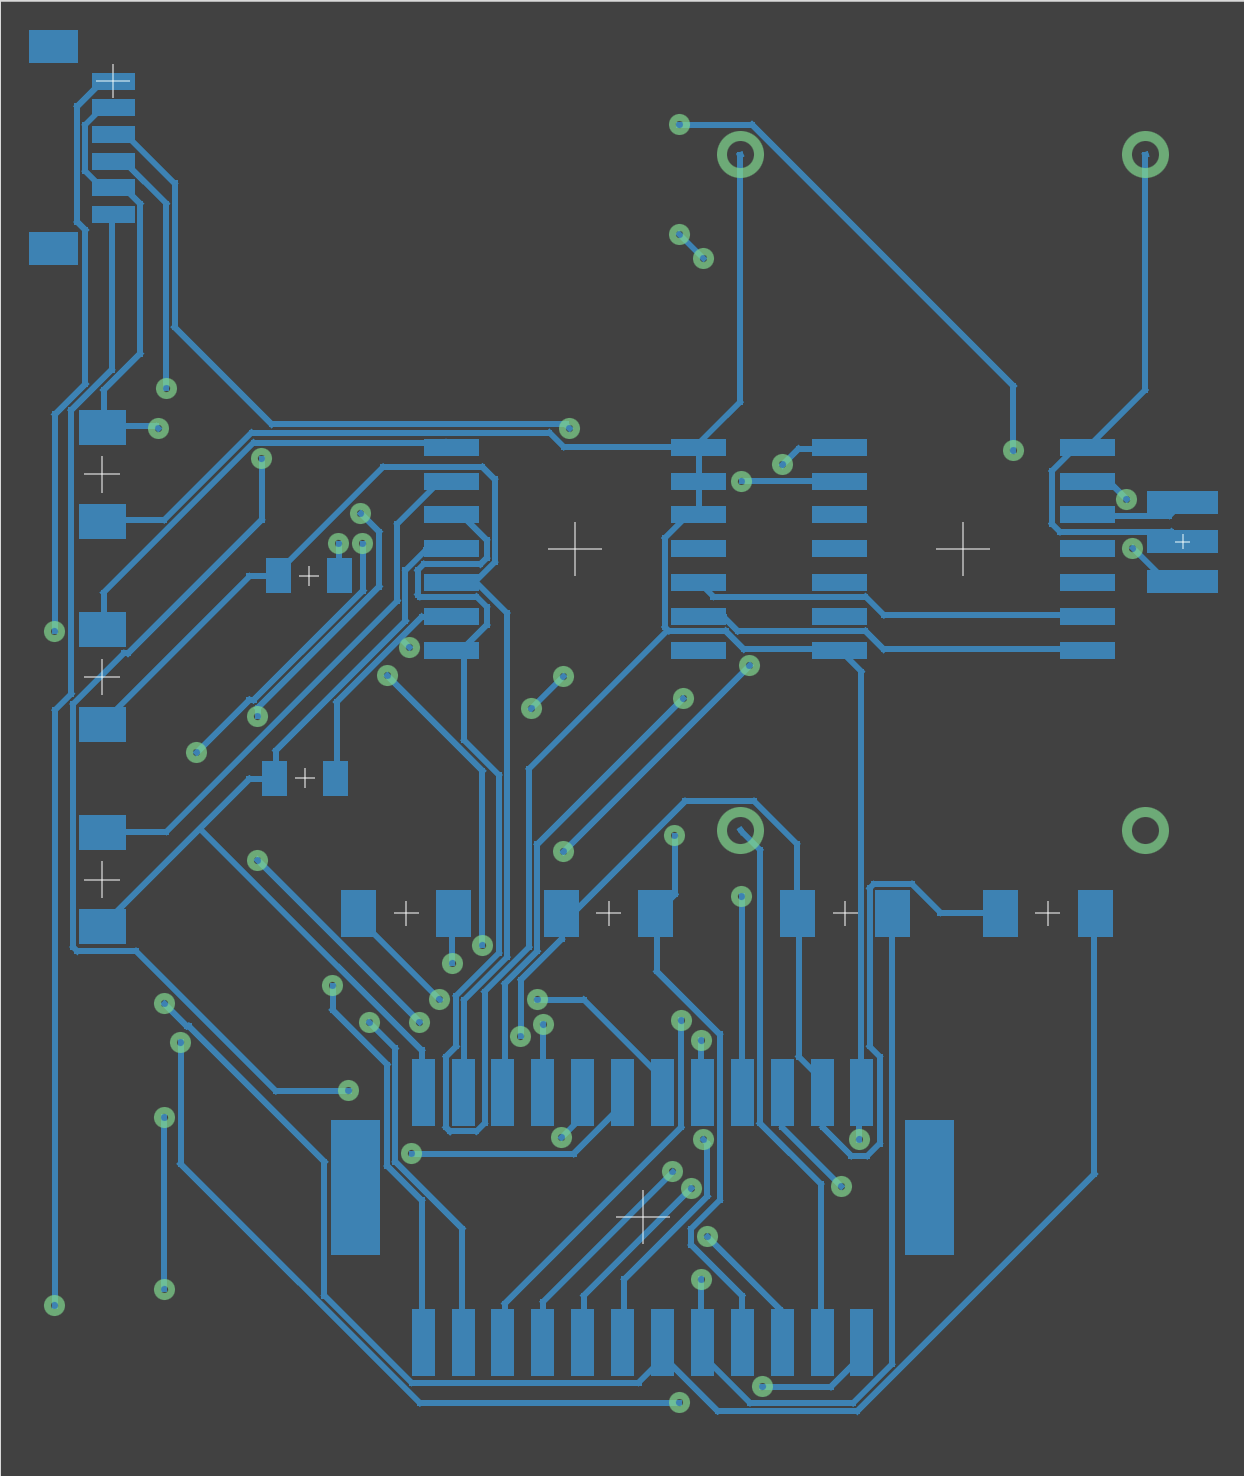
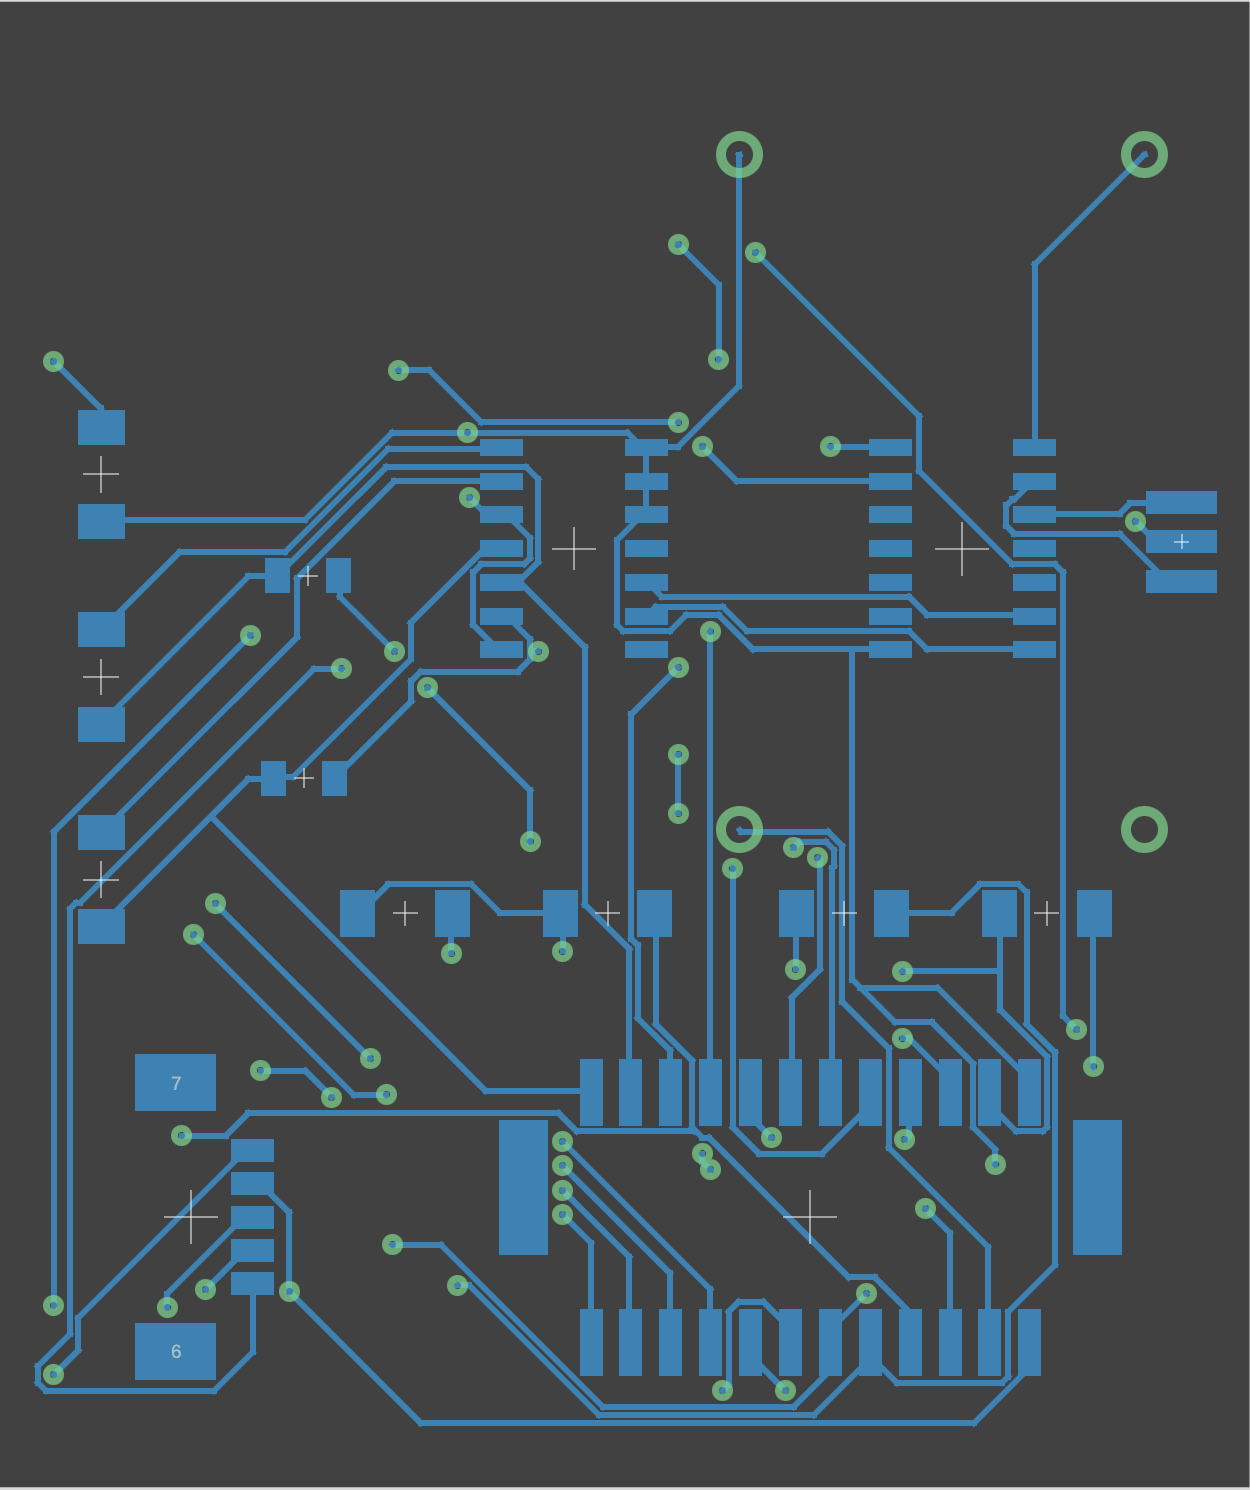
Some changes to the schema and PCB.
+ Replace the DEBUG connector with a "proper" 5pin/2mm pitch/vertical, connector.
+ Update the 3D models for the CAN bus chips and the big connector.
+ Renumber and rename the resistors.
+ Update the README.md file a little. Wording not quite right..
+ Update all screenshots.

diff --git a/README.md b/README.md
@@ -41,6 +41,7 @@ This is to introduce drive-by-wire buttons for Mercedes-Benz. Specifically, it i
      - [Update Sun 5 May 2024](#update-sun-5-may-2024)
      - [Update Sun 6 May 2024](#update-sun-6-may-2024)
      - [Update Sun 8 May 2024](#update-sun-8-may-2024)
+     - [Update Sun 9 May 2024](#update-sun-9-may-2024)
 5. [Additional information](#additional-information)
 
 ## Fingerprint scanner instead of Start button
@@ -134,27 +135,27 @@ Q: Can DriveByWire check CAN for certain buttons around the car
 # Pin layout for RaspberryPI 3-5, and Pico
 
 | Pin | Port    | Use                          |-| Pin | Port    | Use
-| --: | :------ | :--------------------------- |-| --: | :------ | :------------------------------- |
-|   1 | GPIO  0 | Debug (RX)                   |-| 40  | VBUS    |                                  |
-|   2 | GPIO  1 | Debug (TX)                   |-| 39  | VSYS    |                                  |
-|   3 | GND     |                              |-| 38  | GND     |                                  |
-|   4 | GPIO  2 | Button (Switch - P)          |-| 37  | 3V3_EN  |                                  |
-|   5 | GPIO  3 | Button (Switch - R)          |-| 36  | 3V3_OUT |                                  |
-|   6 | GPIO  4 | Button (Switch - N)          |-| 35  | VDC_REF |                                  |
-|   7 | GPIO  5 | Button (Switch - D)          |-| 34  | GPIO 28 | Actuator - Motor Relay (+)       |
-|   8 | GND     |                              |-| 33  | GND     |                                  |
-|   9 | GPIO  6 | Button (Telltale - P)        |-| 32  | GPIO 27 | Actuator - Motor Relay (-)       |
-|  10 | GPIO  7 | Button (Telltale - R)        |-| 31  | GPIO 26 | Actuator - Potentiometer Brush   |
-|  11 | GPIO  8 | Button (Telltale - N)        |-| 30  | RUN     |                                  |
-|  12 | GPIO  9 | Button (Telltale - D)        |-| 29  | GPIO 22 | EIS Relay (#3 - start)           |
-|  13 | GND     | *[GPIO 29]*                  |-| 28  | GND     | *[GPIO 23]*                      |
-|  14 | GPIO 10 | CAN #1 (RX)                  |-| 27  | GPIO 21 | CAN #0 (RX)                      |
-|  15 | GPIO 11 | CAN #1 (TX)                  |-| 26  | GPIO 20 | CAN #0 (TX)                      |
-|  16 | GPIO 12 |                              |-| 25  | GPIO 19 | EIS Relay (#1 - ignition switch) |
-|  17 | GPIO 13 | Fingerprint Scanner (WAKEUP) |-| 24  | GPIO 18 | EIS Relay (#2 - steering lock)   |
-|  18 | GND     | *[GPIO 25]*                  |-| 23  | GND     | *[GPIO 24]*                      |
-|  19 | GPIO 14 | Status LED (Data OUT)        |-| 22  | GPIO 17 | Fingerprint Scanner (TX)         |
-|  20 | GPIO 15 | Status LED (Data IN)         |-| 21  | GPIO 16 | Fingerprint Scanner (RX)         |
+| --: | :------ | :--------------------------- |-| --: | :------ | :-------------------------------   |
+|   1 | GPIO  0 | Debug (RX)                   |-| 40  | VBUS    |                                    |
+|   2 | GPIO  1 | Debug (TX)                   |-| 39  | VSYS    |                                    |
+|   3 | GND     |                              |-| 38  | GND     |                                    |
+|   4 | GPIO  2 | Button (Switch - P)          |-| 37  | 3V3_EN  |                                    |
+|   5 | GPIO  3 | Button (Switch - R)          |-| 36  | 3V3_OUT |                                    |
+|   6 | GPIO  4 | Button (Switch - N)          |-| 35  | VDC_REF |                                    |
+|   7 | GPIO  5 | Button (Switch - D)          |-| 34  | GPIO 28 | Actuator - Motor Relay (+)         |
+|   8 | GND     |                              |-| 33  | GND     |                                    |
+|   9 | GPIO  6 | Button (Telltale - P)        |-| 32  | GPIO 27 | Actuator - Motor Relay (-)         |
+|  10 | GPIO  7 | Button (Telltale - R)        |-| 31  | GPIO 26 | Actuator - Potentiometer Brush     |
+|  11 | GPIO  8 | Button (Telltale - N)        |-| 30  | RUN     |                                    |
+|  12 | GPIO  9 | Button (Telltale - D)        |-| 29  | GPIO 22 | EIS Relay (#3 - start)             |
+|  13 | GND     | *[GPIO 29]*                  |-| 28  | GND     | *[GPIO 23]*                        |
+|  14 | GPIO 10 | ~~CAN #1 (RX)~~              |-| 27  | GPIO 21 | CAN #0 (RX)                        |
+|  15 | GPIO 11 | ~~CAN #1 (TX)~~              |-| 26  | GPIO 20 | CAN #0 (TX)                        |
+|  16 | GPIO 12 |                              |-| 25  | GPIO 19 | EIS Relay (#1 - ignition switch)   |
+|  17 | GPIO 13 | Fingerprint Scanner (WAKEUP) |-| 24  | GPIO 18 | ~~EIS Relay (#2 - steering lock)~~ |
+|  18 | GND     | *[GPIO 25]*                  |-| 23  | GND     | *[GPIO 24]*                        |
+|  19 | GPIO 14 | Status LED (Data OUT)        |-| 22  | GPIO 17 | Fingerprint Scanner (TX)           |
+|  20 | GPIO 15 | Status LED (Data IN)         |-| 21  | GPIO 16 | Fingerprint Scanner (RX)           |
 
 LED | GPIO 25
 
@@ -213,7 +214,7 @@ Or those two combined, [buttons and their LEDs and the status LED](https://www.e
 
 ### Total
 
-31 leads out from system - 24, counting only unique pins (SteeringLock "relay" and CAN#2 not counted, because
+31 leads out from system - 24, counting only unique pins (IgnitionSwitch "relay" and CAN#2 not counted, because
 those shouldn't be anyway).
 
 # Parts
@@ -249,10 +250,11 @@ Crossed out parts are things I either didn't buy or don't need. Yet. Which is wh
 | [Resistor - 10kΩ](https://www.mouser.co.uk/ProductDetail/710-560112116005) | £0.09
 | [Capacitor - 150pF](https://www.mouser.co.uk/ProductDetail/710-885012007017) | £0.08 * 2
 | [Resonator - 16MHz/15pF](https://www.mouser.co.uk/ProductDetail/81-CSTNE16M0VH3L000R) | £0.30
-| [Motherboard connector - 24pin](https://www.mouser.co.uk/ProductDetail/538-213227-2410) | £3
+| [Motherboard connector - 24pin/vertical](https://www.mouser.co.uk/ProductDetail/538-213227-2410) | £3
 | [Wire to Motherboard connector - 24pin](https://www.mouser.co.uk/ProductDetail/538-503148-2490) | £3
 | [Panel mount connector - 24 pin](https://www.mouser.co.uk/ProductDetail/798-DF51-24DEP-2C) | £1
 | [Wire to panel mount connector - 24pin](https://www.mouser.co.uk/ProductDetail/798-DF51-24DS-2C) | £0.3
+| [Debug connector - 5pin/vertical](https://www.mouser.co.uk/ProductDetail/538-53398-0567) | £0.6
 
 ## For development
 
@@ -472,6 +474,13 @@ is then selected automatically.
   ones.
 * Remove the EIS/SteeringLock "relay". Can't really cut the power to EIS that way. If there's no power to it,
   it won't detect the key, and won't allow me to turn the power to the device on! :).
+
+### Update Sun 9 May 2024
+
+* Update the connectors, get proper CAD drawings and 3D models for them.
+* Change the DEBUG connector to a vertical, 5pin, JST connector.
+* Change all smaller motherboard connectors with one big one. This should then go to ONE big panel/chassis
+  connector, which can then be split up into multiple leads to the different parts of the car.
 
 # Additional information
 
